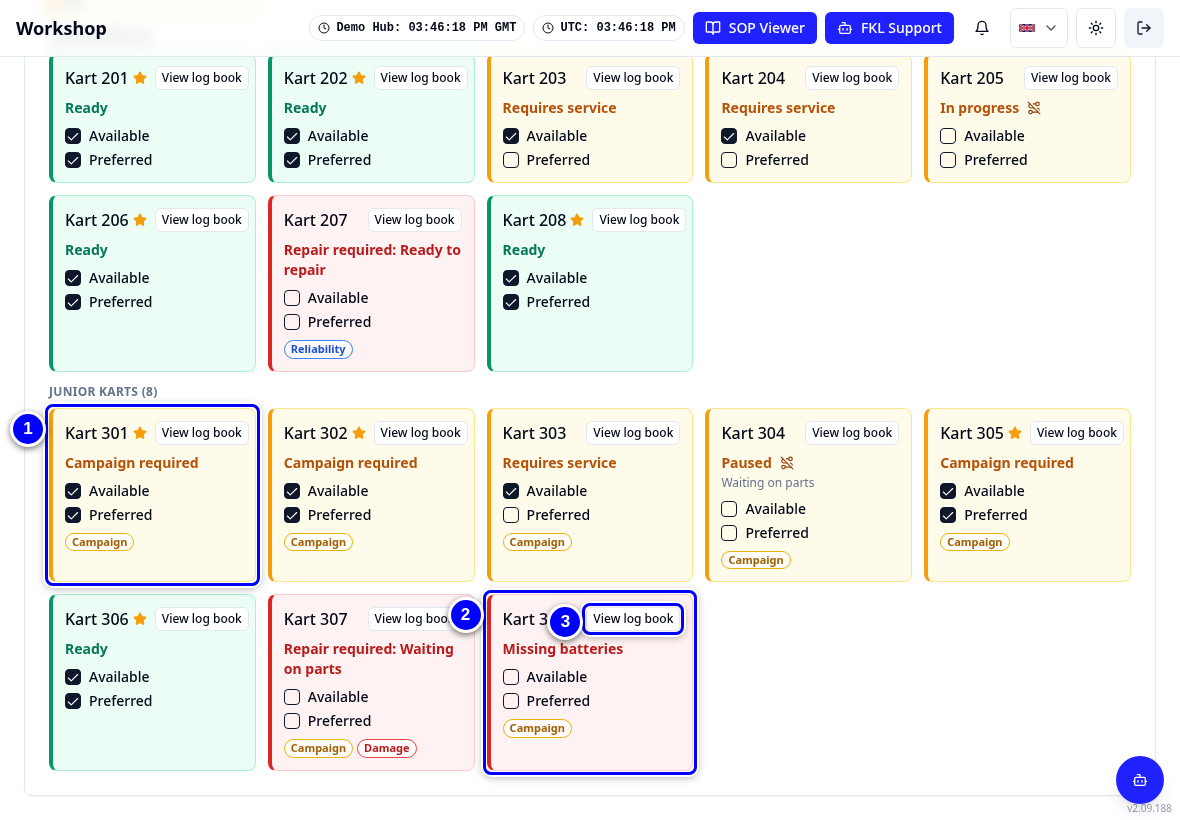
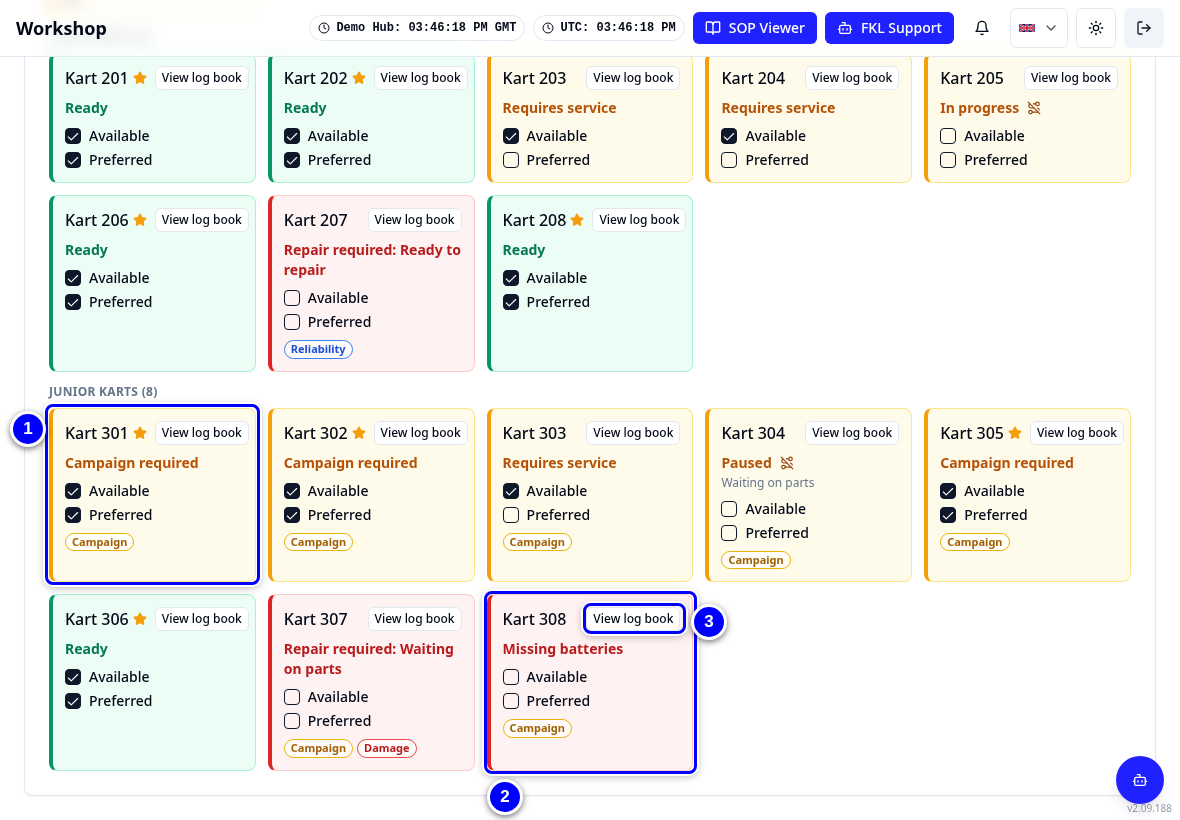
D-18 review: red karts in Race to Chassis, Performance, Event usable, tiles callouts
- Kart statuses + glossary: a red kart is refused in Race to Chassis unless
  someone assigns it with a reason; a manual Available tick shows as
  Available (was "not offered for allocation").
- Repair needed (usable): an open Performance ticket also puts a kart there;
  the Performance tag no longer says the kart keeps its colour.
- Event usable also counts Repair needed (usable) and Campaign required
  karts, so it can be higher than the board's green Ready, by design.
- Race to Chassis: Campaign required is amber and Written off grey, as on
  the board (KART #246).
- mech-board-tiles: callouts 2 and 3 moved off the Kart 308 label
  (re-annotated from the same raw capture; the flow now places them below
  and right).

diff --git a/content/start/statuses.md b/content/start/statuses.md
@@ -12,7 +12,7 @@ Every kart in KART has one colour: **green**, **amber** or **red** (grey for kar
 !!! info "What changed from the Workshop App"
     - **Three colours instead of nine.** Green is Ready, amber needs attention, red is blocked. The reason (for example **Paused** or **Waiting on parts**) is written next to the colour.
     - **"Turn Required" is now "Requires service".** Same meaning: the kart has been used since its last service and needs one. KART never shows the words "Turn Required".
-    - **One colour for status and availability.** A red kart is not offered for allocation. An amber kart in a service or paused carries a small **Not on track** marker.
+    - **One colour for status and availability.** A red kart is blocked: **Race to Chassis** refuses it unless someone assigns it with a reason. A kart someone ticked **Available** by hand shows as Available, with a lock and the **Manual override** tag. An amber kart in a service or paused carries a small **Not on track** marker.
     - Logging an incident no longer makes a kart Repair required on its own. See [Incidents, tickets and repairs](problems-explained.md).
 
 ## The colours at a glance
@@ -21,7 +21,7 @@ Every kart in KART has one colour: **green**, **amber** or **red** (grey for kar
 |---|---|---|---|
 | <span class="swatch sw-ready"></span> green | **Ready** | Serviced and nothing open. The kart can race. | Ready |
 | <span class="swatch sw-requires"></span> amber | **Needs attention** | The kart needs work, but nothing stops it for good. | **Campaign required**, **In progress**, **Paused**, **Requires service**, **Repair needed (usable)** |
-| <span class="swatch sw-repair-required"></span> red | **Blocked** | The kart must not be used. It is not offered for allocation (KART does not offer it when karts are handed out for an event). | **Repair required** (**Ready to repair**, **Waiting on parts** or **Stopping ticket**), **Missing batteries**, **Not available** |
+| <span class="swatch sw-repair-required"></span> red | **Blocked** | The kart must not be used. **Race to Chassis** refuses it unless someone assigns it with a reason. If someone ticked **Available** by hand, it shows as Available (with a lock). | **Repair required** (**Ready to repair**, **Waiting on parts** or **Stopping ticket**), **Missing batteries**, **Not available** |
 | <span class="swatch sw-paused"></span> grey | **Written off / off site** | The kart is written off or not at a hub. It is not counted in the hub's active karts. Shown only when there is one. | **Written off**, **Off site** |
 
 A kart is counted once, under the first reason that applies, in the order of the list below. The numbers on the board always add up to the number of active karts.
@@ -41,12 +41,12 @@ A kart is counted once, under the first reason that applies, in the order of the
 | **In progress** | amber, **Not on track** | A mechanic has started the service. | **Start service**. It ends with **Complete service**. | In Progress |
 | **Paused** | amber, **Not on track** | The service was paused with a reason (shown under the label). | **Pause**. It ends when someone resumes the service. | Paused |
 | **Requires service** | amber | The kart has been used and needs a service; the service has not started. | It goes on track (Race to Chassis on the event day), or a hub manager marks it used. Completing the service ends it. | Turn Required (Ready to Turn) |
-| **Repair needed (usable)** | amber | An open repair that does not stop the kart. The kart stays available. | Completing the repair. | Repair Needed (Usable) |
+| **Repair needed (usable)** | amber | An open repair that does not stop the kart, or an open **Performance** ticket. The kart stays available. | Completing the repair. | Repair Needed (Usable) |
 | **Campaign required** | amber | An open task in an active campaign, and nothing else is open. The kart stays usable. | Completing the task, or the kart is excluded. | (new) |
 | **Ready** | green | Nothing open. | Any of the above. | Ready |
 
 !!! note "Remember"
-    **Event usable** has not changed: Ready or Repair needed (usable), and available. Only those karts count towards your readiness targets, on the separate **Event readiness** card.
+    **Event usable** has not changed: Ready or Repair needed (usable), and available. Only those karts count towards your readiness targets, on the separate **Event readiness** card. So **Event usable** also counts amber karts that are **Repair needed (usable)** or **Campaign required**: it can be higher than the board's green **Ready**. That is by design.
 
 ## Markers and tags
 
@@ -58,7 +58,7 @@ The colour comes only from the kart's condition. Markers and tags add detail; th
 - **Track use override**: the kart may run until the time shown, even if it is not available. The colour stays as it is.
 - **Manual override**: someone set Available or Preferred by hand.
 - **Campaign**: an open campaign task. Shown on any colour, so a red kart with campaign work shows red with the Campaign tag.
-- **Performance**: an open performance ticket. The kart keeps its colour (it does not stop the kart) but is not preferred.
+- **Performance**: an open performance ticket. It does not stop the kart: the kart is amber **Repair needed (usable)** (unless another reason comes first) and not preferred.
 - **Reliability** or **Damage**: the kind of open ticket on a red kart.
 - **Missing batteries**: shown as a tag when the kart is red for another reason too.
 

diff --git a/docs/start/statuses.md b/docs/start/statuses.md
@@ -6,7 +6,7 @@ Every kart in KART has one colour: **green**, **amber** or **red** (grey for kar
 !!! info "What changed from the Workshop App"
     - **Three colours instead of nine.** Green is Ready, amber needs attention, red is blocked. The reason (for example **Paused** or **Waiting on parts**) is written next to the colour.
     - **"Turn Required" is now "Requires service".** Same meaning: the kart has been used since its last service and needs one. KART never shows the words "Turn Required".
-    - **One colour for status and availability.** A red kart is not offered for allocation. An amber kart in a service or paused carries a small **Not on track** marker.
+    - **One colour for status and availability.** A red kart is blocked: **Race to Chassis** refuses it unless someone assigns it with a reason. A kart someone ticked **Available** by hand shows as Available, with a lock and the **Manual override** tag. An amber kart in a service or paused carries a small **Not on track** marker.
     - Logging an incident no longer makes a kart Repair required on its own. See [Incidents, tickets and repairs](problems-explained.md).
 
 ## The colours at a glance
@@ -15,7 +15,7 @@ Every kart in KART has one colour: **green**, **amber** or **red** (grey for kar
 |---|---|---|---|
 | <span class="swatch sw-ready"></span> green | **Ready** | Serviced and nothing open. The kart can race. | Ready |
 | <span class="swatch sw-requires"></span> amber | **Needs attention** | The kart needs work, but nothing stops it for good. | **Campaign required**, **In progress**, **Paused**, **Requires service**, **Repair needed (usable)** |
-| <span class="swatch sw-repair-required"></span> red | **Blocked** | The kart must not be used. It is not offered for allocation (KART does not offer it when karts are handed out for an event). | **Repair required** (**Ready to repair**, **Waiting on parts** or **Stopping ticket**), **Missing batteries**, **Not available** |
+| <span class="swatch sw-repair-required"></span> red | **Blocked** | The kart must not be used. **Race to Chassis** refuses it unless someone assigns it with a reason. If someone ticked **Available** by hand, it shows as Available (with a lock). | **Repair required** (**Ready to repair**, **Waiting on parts** or **Stopping ticket**), **Missing batteries**, **Not available** |
 | <span class="swatch sw-paused"></span> grey | **Written off / off site** | The kart is written off or not at a hub. It is not counted in the hub's active karts. Shown only when there is one. | **Written off**, **Off site** |
 
 A kart is counted once, under the first reason that applies, in the order of the list below. The numbers on the board always add up to the number of active karts.
@@ -35,12 +35,12 @@ A kart is counted once, under the first reason that applies, in the order of the
 | **In progress** | amber, **Not on track** | A mechanic has started the service. | **Start service**. It ends with **Complete service**. | In Progress |
 | **Paused** | amber, **Not on track** | The service was paused with a reason (shown under the label). | **Pause**. It ends when someone resumes the service. | Paused |
 | **Requires service** | amber | The kart has been used and needs a service; the service has not started. | It goes on track (Race to Chassis on the event day), or a hub manager marks it used. Completing the service ends it. | Turn Required (Ready to Turn) |
-| **Repair needed (usable)** | amber | An open repair that does not stop the kart. The kart stays available. | Completing the repair. | Repair Needed (Usable) |
+| **Repair needed (usable)** | amber | An open repair that does not stop the kart, or an open **Performance** ticket. The kart stays available. | Completing the repair. | Repair Needed (Usable) |
 | **Campaign required** | amber | An open task in an active campaign, and nothing else is open. The kart stays usable. | Completing the task, or the kart is excluded. | (new) |
 | **Ready** | green | Nothing open. | Any of the above. | Ready |
 
 !!! note "Remember"
-    **Event usable** has not changed: Ready or Repair needed (usable), and available. Only those karts count towards your readiness targets, on the separate **Event readiness** card.
+    **Event usable** has not changed: Ready or Repair needed (usable), and available. Only those karts count towards your readiness targets, on the separate **Event readiness** card. So **Event usable** also counts amber karts that are **Repair needed (usable)** or **Campaign required**: it can be higher than the board's green **Ready**. That is by design.
 
 ## Markers and tags
 
@@ -52,7 +52,7 @@ The colour comes only from the kart's condition. Markers and tags add detail; th
 - **Track use override**: the kart may run until the time shown, even if it is not available. The colour stays as it is.
 - **Manual override**: someone set Available or Preferred by hand.
 - **Campaign**: an open campaign task. Shown on any colour, so a red kart with campaign work shows red with the Campaign tag.
-- **Performance**: an open performance ticket. The kart keeps its colour (it does not stop the kart) but is not preferred.
+- **Performance**: an open performance ticket. It does not stop the kart: the kart is amber **Repair needed (usable)** (unless another reason comes first) and not preferred.
 - **Reliability** or **Damage**: the kind of open ticket on a red kart.
 - **Missing batteries**: shown as a tag when the kart is red for another reason too.
 

diff --git a/docs/mechanic/race-to-chassis.md b/docs/mechanic/race-to-chassis.md
@@ -30,7 +30,7 @@ Race to Chassis (R2C) links each race number (the driver's number for the day) t
 <track kind="captions" src="../assets/video/mech-r2c-drag-clip.vtt" srclang="en" label="English" default></video>
 <figcaption>Watch: putting race numbers on chassis with drag and drop (about 50 seconds, with captions)</figcaption></figure>
 
-The buttons at the top pick the kart class (**Junior**, **Cadet**, **Bambino**) and the session (**1**, **2**, **3**, **4**). The chassis show each kart's number in its class, so Junior 301 is chassis **01**. The chassis colour is the kart's status colour, the same as on the Fleet board: **Ready** (green), **Needs attention** (amber, for example in a service or Requires service) or **Blocked** (red, must not be used); **Not in fleet** is a plain outline. A filled star means the kart is preferred, an empty star **Unpreferred**. See [Kart statuses](../start/statuses.md).
+The buttons at the top pick the kart class (**Junior**, **Cadet**, **Bambino**) and the session (**1**, **2**, **3**, **4**). The chassis show each kart's number in its class, so Junior 301 is chassis **01**. The chassis colour is the kart's status colour, the same as on the Fleet board: **Ready** (green), **Needs attention** (amber, for example in a service, Requires service or Campaign required), **Blocked** (red, must not be used) or **Written off** (grey); **Not in fleet** is a plain outline. A filled star means the kart is preferred, an empty star **Unpreferred**. See [Kart statuses](../start/statuses.md).
 
 1. At the top, tap the kart class, for example **Junior**. Check the right session is selected. The **Race Number** list on the right holds the numbers to place.
 
@@ -58,7 +58,7 @@ The buttons at the top pick the kart class (**Junior**, **Cadet**, **Bambino**) 
 <track kind="captions" src="../assets/video/mech-r2c-list-clip.vtt" srclang="en" label="English" default></video>
 <figcaption>Watch: putting a race number on a chassis with the chassis list on a phone (about 35 seconds, with captions)</figcaption></figure>
 
-The list shows one session of one class: tap the kart class (**Junior**, **Cadet**, **Bambino**) and the session (**1**, **2**, **3**, **4**) at the top. KART opens on the current session. Each row is a chassis, for example **Kart 302**, with its colour (**Ready**, **Needs attention**, **Blocked** or **Not in fleet**), a filled or empty star (preferred or **Unpreferred**), plus tags such as **Requires service**, and, on the right, the race number it has in this session (a dot when it has none).
+The list shows one session of one class: tap the kart class (**Junior**, **Cadet**, **Bambino**) and the session (**1**, **2**, **3**, **4**) at the top. KART opens on the current session. Each row is a chassis, for example **Kart 302**, with its colour (**Ready**, **Needs attention**, **Blocked**, **Written off** or **Not in fleet**), a filled or empty star (preferred or **Unpreferred**), plus tags such as **Requires service**, and, on the right, the race number it has in this session (a dot when it has none).
 
 1. Tap the chassis, for example **Kart 302**.
 

diff --git a/content/mechanic/race-to-chassis.md b/content/mechanic/race-to-chassis.md
@@ -70,7 +70,7 @@ captions:
   - "Drag the number back to take it off."
 :::
 
-The buttons at the top pick the kart class (**Junior**, **Cadet**, **Bambino**) and the session (**1**, **2**, **3**, **4**). The chassis show each kart's number in its class, so Junior 301 is chassis **01**. The chassis colour is the kart's status colour, the same as on the Fleet board: **Ready** (green), **Needs attention** (amber, for example in a service or Requires service) or **Blocked** (red, must not be used); **Not in fleet** is a plain outline. A filled star means the kart is preferred, an empty star **Unpreferred**. See [Kart statuses](../start/statuses.md).
+The buttons at the top pick the kart class (**Junior**, **Cadet**, **Bambino**) and the session (**1**, **2**, **3**, **4**). The chassis show each kart's number in its class, so Junior 301 is chassis **01**. The chassis colour is the kart's status colour, the same as on the Fleet board: **Ready** (green), **Needs attention** (amber, for example in a service, Requires service or Campaign required), **Blocked** (red, must not be used) or **Written off** (grey); **Not in fleet** is a plain outline. A filled star means the kart is preferred, an empty star **Unpreferred**. See [Kart statuses](../start/statuses.md).
 
 1. At the top, tap the kart class, for example **Junior**. Check the right session is selected. The **Race Number** list on the right holds the numbers to place.
 
@@ -136,7 +136,7 @@ captions:
   - "Switch views with the button at the bottom."
 :::
 
-The list shows one session of one class: tap the kart class (**Junior**, **Cadet**, **Bambino**) and the session (**1**, **2**, **3**, **4**) at the top. KART opens on the current session. Each row is a chassis, for example **Kart 302**, with its colour (**Ready**, **Needs attention**, **Blocked** or **Not in fleet**), a filled or empty star (preferred or **Unpreferred**), plus tags such as **Requires service**, and, on the right, the race number it has in this session (a dot when it has none).
+The list shows one session of one class: tap the kart class (**Junior**, **Cadet**, **Bambino**) and the session (**1**, **2**, **3**, **4**) at the top. KART opens on the current session. Each row is a chassis, for example **Kart 302**, with its colour (**Ready**, **Needs attention**, **Blocked**, **Written off** or **Not in fleet**), a filled or empty star (preferred or **Unpreferred**), plus tags such as **Requires service**, and, on the right, the race number it has in this session (a dot when it has none).
 
 1. Tap the chassis, for example **Kart 302**.
 

diff --git a/content/glossary.md b/content/glossary.md
@@ -13,7 +13,7 @@
 | **Approved** | Order stage: OK to order | (new) |
 | **Assign anyway** | Put a race number on a chassis that is not available, with a reason. Gives a track use override | Track use override |
 | **Available** | The kart is offered for allocation | Available |
-| **Blocked** | A checklist answer: this check cannot pass. Needs a reason. On the Fleet board: red, the kart must not be used and is not offered for allocation | Further action required; Repair Required |
+| **Blocked** | A checklist answer: this check cannot pass. Needs a reason. On the Fleet board: red, the kart must not be used; Race to Chassis refuses it unless someone assigns it with a reason | Further action required; Repair Required |
 | **BoM** | Bill of materials: the list of parts that make up each kart. Kept by FKL Central | (new) |
 | **Campaign** | One job done on many karts, such as a part upgrade | Campaign |
 | **Campaign Required** | Board status for karts with an open task of an active integrated campaign. The kart stays usable | (new) |

diff --git a/docs/glossary.md b/docs/glossary.md
@@ -13,7 +13,7 @@
 | **Approved** | Order stage: OK to order | (new) |
 | **Assign anyway** | Put a race number on a chassis that is not available, with a reason. Gives a track use override | Track use override |
 | **Available** | The kart is offered for allocation | Available |
-| **Blocked** | A checklist answer: this check cannot pass. Needs a reason. On the Fleet board: red, the kart must not be used and is not offered for allocation | Further action required; Repair Required |
+| **Blocked** | A checklist answer: this check cannot pass. Needs a reason. On the Fleet board: red, the kart must not be used; Race to Chassis refuses it unless someone assigns it with a reason | Further action required; Repair Required |
 | **BoM** | Bill of materials: the list of parts that make up each kart. Kept by FKL Central | (new) |
 | **Campaign** | One job done on many karts, such as a part upgrade | Campaign |
 | **Campaign Required** | Board status for karts with an open task of an active integrated campaign. The kart stays usable | (new) |
